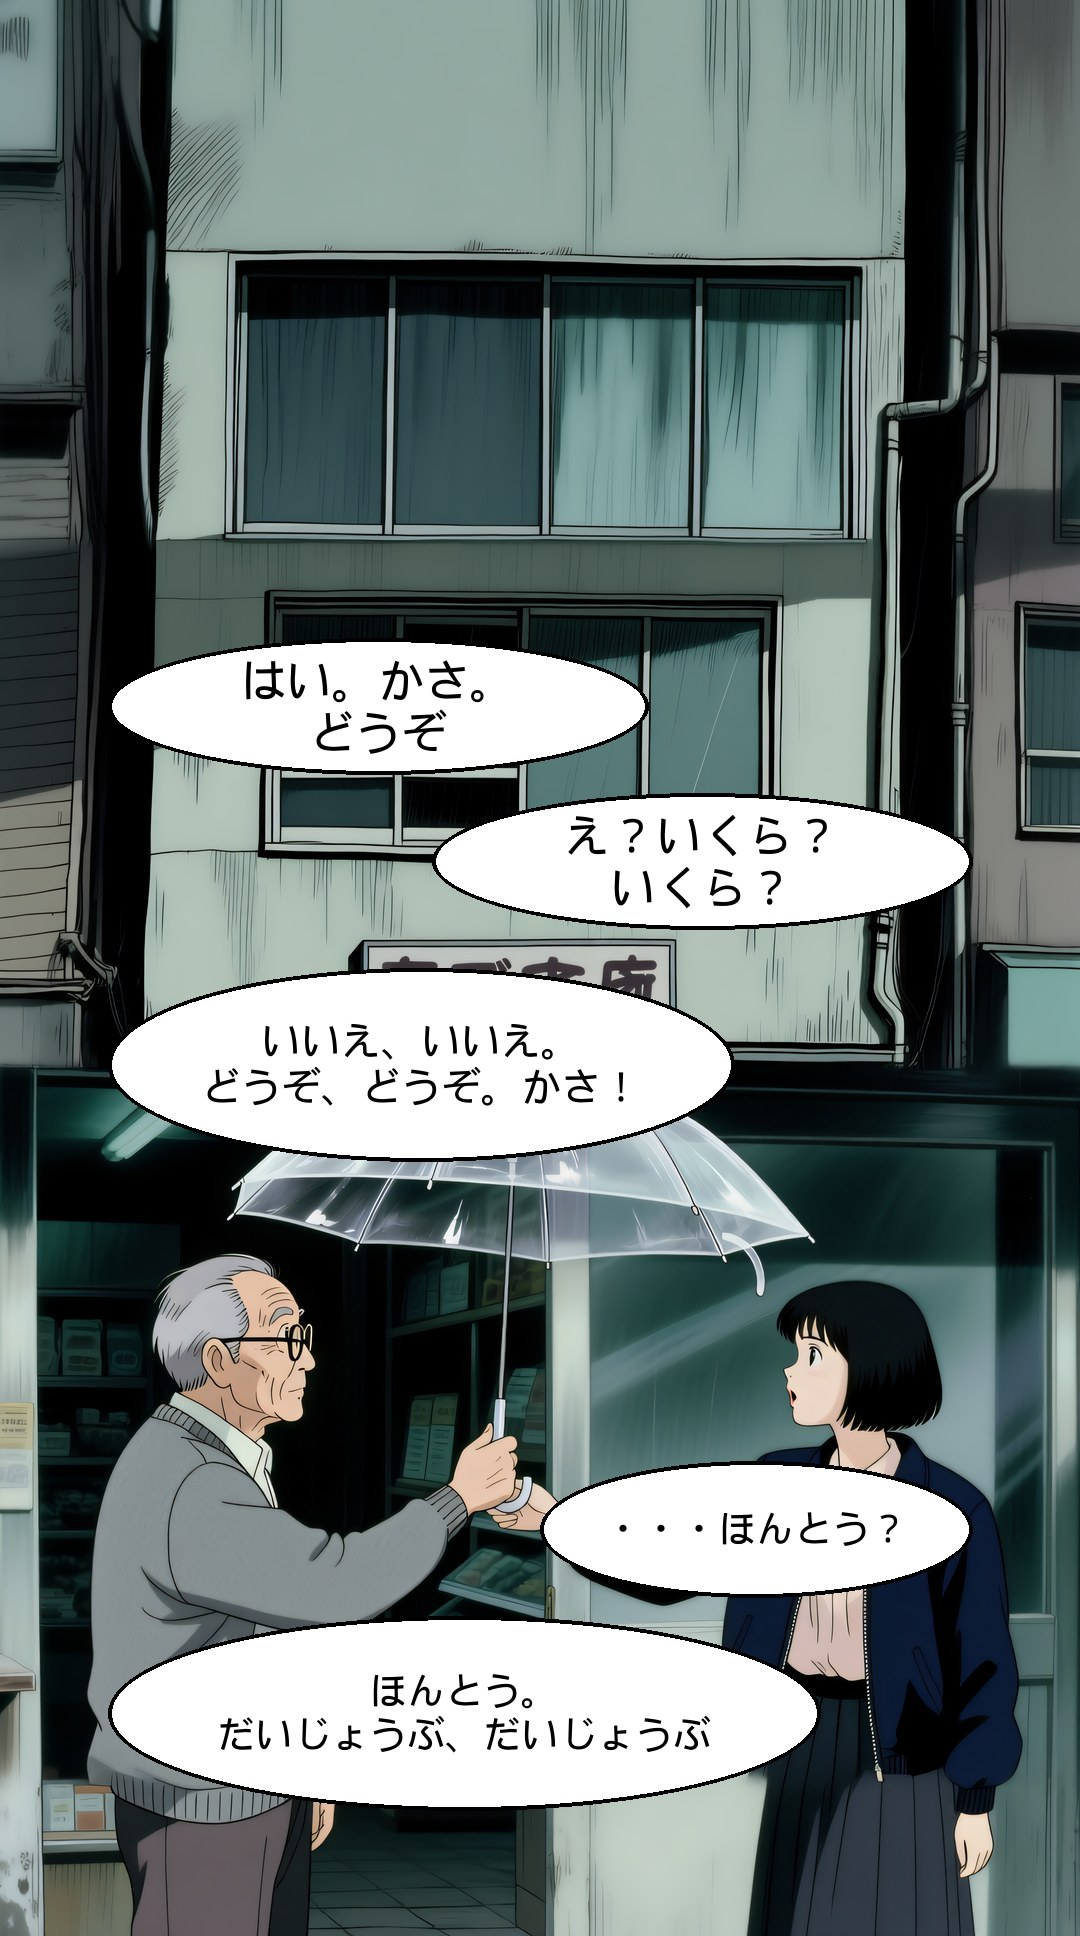
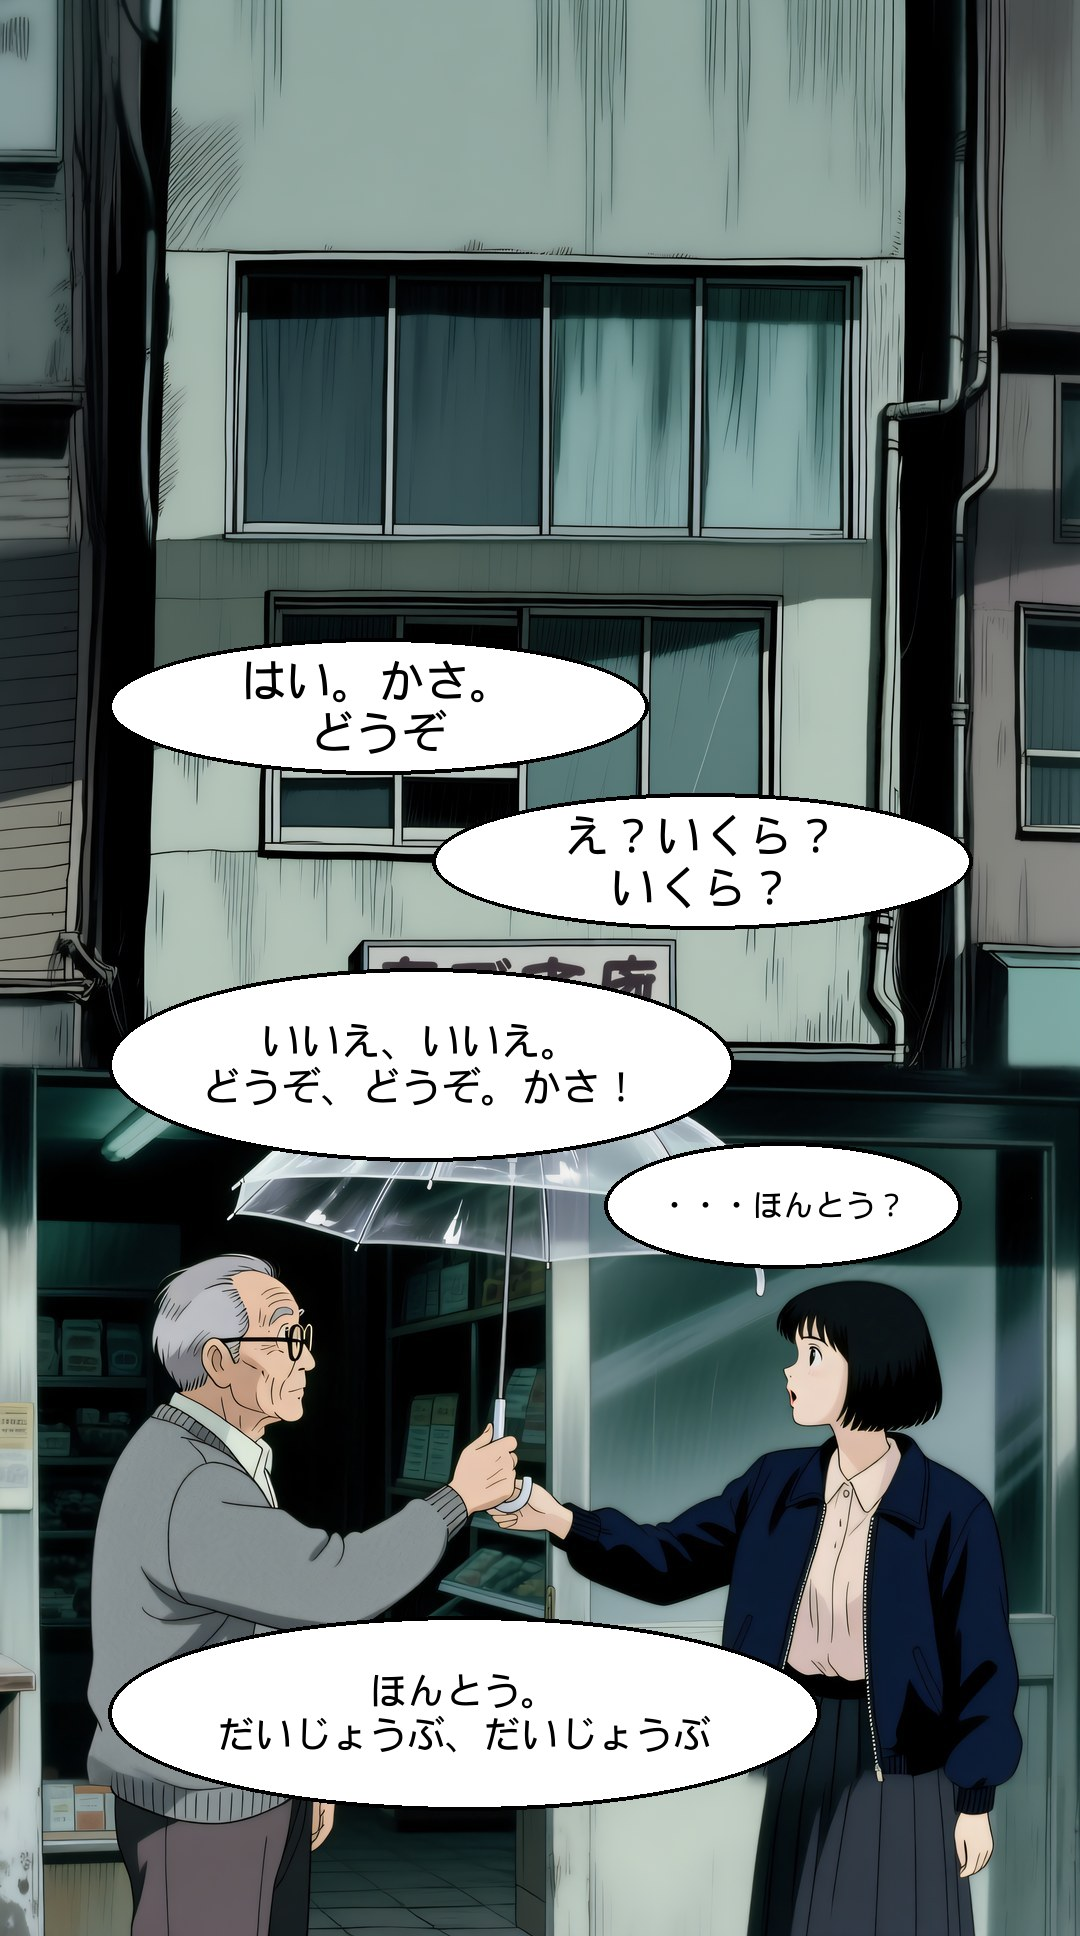
fix(comic): Fix-Welle Gesamt-Review — force löscht Altbild, Quellgröße geprüft, OUT nur feste Namen, INV-17-Wortlaut, README mkdir, p07-Blase frei von der Übergabe
Claude-Session: https://claude.ai/code/session_01V1Gjg1CbgsdmmmgtvPes7L

Changed region(s): [[0.4889, 0.7438, 0.9167, 0.8368], [0.55, 0.5888, 0.8861, 0.6818]]

diff --git a/lib/features/story/episodes/folge_01_layout.g.dart b/lib/features/story/episodes/folge_01_layout.g.dart
@@ -259,10 +259,10 @@ const List<Map<String, double>> f01HitHochP07B2 = [
 
 /// p07 hoch: …ほんとう？
 const List<Map<String, double>> f01HitHochP07B3 = [
-  {'x': 0.5, 'y': 0.755},
-  {'x': 0.9, 'y': 0.755},
-  {'x': 0.9, 'y': 0.825},
-  {'x': 0.5, 'y': 0.825},
+  {'x': 0.56, 'y': 0.59},
+  {'x': 0.89, 'y': 0.59},
+  {'x': 0.89, 'y': 0.655},
+  {'x': 0.56, 'y': 0.655},
 ];
 
 /// p07 hoch: ほんとう。だいじょうぶ、だいじょうぶ

diff --git a/tool/comic/test_hoch.py b/tool/comic/test_hoch.py
@@ -1,5 +1,7 @@
 #!/usr/bin/env python3
 """Aufruf: cd tool/comic && python3 -m unittest test_hoch (ohne Box: cc.run wird ersetzt)"""
+import contextlib
+import io
 import json
 import os
 import tempfile
@@ -133,6 +135,30 @@ class Main(Base):
             self.assertIn("human figure", c[4])
         with Image.open(os.path.join(fh.OUT, "p05_hoch.png")) as im:
             self.assertEqual(im.size, (928, 1664))
+        self.assertEqual(sorted(os.listdir(fh.OUT)), ["%s_hoch.png" % m for m in sorted(MOTIFS)])  # nur feste Namen in OUT
+
+    def test_force_removes_stale_output_before_rendering(self):
+        fh.main(self.picks)                                   # p05 liegt
+        stale = os.path.join(fh.OUT, "p05_hoch.png")
+        self.assertTrue(os.path.exists(stale))
+
+        def failing_run(graph, prefix, out_dir, client_id="x"):
+            raise RuntimeError("Box weg")
+        cc.run = failing_run
+        ov = os.path.join(self.d, "ov.txt")
+        with open(ov, "w", encoding="utf-8") as f:
+            f.write("p05_hoch force\n")
+        fh.main(self.picks, ov)
+        self.assertFalse(os.path.exists(stale))               # altes Bild weg, finish meldet FEHLT statt Veraltetes zu nehmen
+
+    def test_wrong_source_size_is_err_not_silent_crop(self):
+        gradient(1920, 1072).save(self.quer["p03"])          # Auslieferungsgröße statt Render-Maß
+        buf = io.StringIO()
+        with contextlib.redirect_stdout(buf):
+            fh.main(self.picks)
+        self.assertIn("ERR p03", buf.getvalue())
+        self.assertIn("1664", buf.getvalue())
+        self.assertFalse(os.path.exists(os.path.join(fh.OUT, "p03_hoch.png")))
 
     def test_main_skips_existing_unless_force(self):
         fh.main(self.picks)

diff --git a/tool/comic/folge01_hoch.py b/tool/comic/folge01_hoch.py
@@ -91,7 +91,7 @@ def extend(motif, strip, plan, seed, out_path):
         last = i == len(steps) - 1
         prefix = "%s_hoch" % motif if last else "%s_hochT%d" % (motif, i + 1)
         got = cc.run(cc.outpaint_graph(cur, top, 0, prompt, NEG_MANGA + NEG_HOCH_OBEN, seed + i, prefix,
-                                       feather=FEATHER_OBEN), prefix, OUT if last else TMP, "f01hoch")
+                                       feather=FEATHER_OBEN), prefix, TMP, "f01hoch")
         last_file = got[0]
         if not last:
             cur = _to_input(last_file, "hoch_%s_T%d.png" % (motif, i + 1))
@@ -118,9 +118,13 @@ def main(picks_path, overrides_path=None):
         if os.path.exists(out_path) and not opts.get("force"):
             print("SKIP", m, flush=True)
             continue
+        if opts.get("force") and os.path.exists(out_path):
+            os.remove(out_path)   # sonst bliebe nach force + ERR ein veraltetes Bild stehen, das finish stillschweigend nimmt
         plan = kg.plan_for(kerne[m])
         try:
             with Image.open(src) as raw:
+                if raw.size != kg.QUER:
+                    raise ValueError("%s: Quelle ist %s, erwartet %s (Render-Maß)" % (m, raw.size, kg.QUER))
                 strip = strip_image(raw.convert("RGB"), plan)
             if plan["mode"] == "crop":
                 print("CROP", m, plan["x0"], plan["x1"], flush=True)

diff --git a/docs/superpowers/specs/2026-09-23-manga-vollbild-titelbild-design.md b/docs/superpowers/specs/2026-09-23-manga-vollbild-titelbild-design.md
@@ -326,7 +326,7 @@ Befunde in §12.6).
      Fenster mittig über dem Kern, an den Bildrand geklemmt.
   2. **Kern breiter als das Fenster** → der Kernstreifen (volle Höhe, volle
      Kernbreite) wird auf 928 px Breite verkleinert und oben/unten vom Modell
-     im Hausstil **verlängert** (§12.4). Der Kern bleibt dabei pixelgleich.
+     im Hausstil **verlängert** (§12.4). Der Kern bleibt dabei inhaltlich unverändert; er durchläuft nur die Bildkodierung des Modells (VAE-Rundreise je Pass), was `check_kern.py` als Abweichung von ≈ 1–2 misst (Beschnitt ≈ 0,5, Grenze 10).
 - Reaktionsbilder (p02/p05/p08) entstehen wie bisher als getönte Variante des
   geletterten Bildes, also automatisch auch hoch.
 
@@ -402,7 +402,7 @@ bildschirmfüllend; nur die Dateien und die Hoch-Tippflächen (generiert) änder
 sich. Invarianten INV-14/15/16 gelten unverändert.
 
 **INV-17 Hoch und quer zeigen dieselbe Szene.** Der Kern des Hochbilds ist
-(bis auf Skalierung) pixelgleich mit dem Kern des Querbilds; `check_kern.py`
+(bis auf Skalierung und die VAE-Rundreise des Rand-Ausmalens) pixelgleich mit dem Kern des Querbilds; `check_kern.py`
 erzwingt das vor dem Lettering.
 
 ### 12.6 Spike-Befunde (30.9.), damit niemand die Fallen neu entdeckt

diff --git a/tool/comic/README.md b/tool/comic/README.md
@@ -146,7 +146,7 @@ ssh pc 'setsid nohup sh ~/f01tool/run_hoch.sh > ~/comfy_f01/hoch.log 2>&1 </dev/
 Marken: `CROP/EXTEND/OK/SKIP/ERR <motiv>`, `HOCH_DONE`. Ergebnis `~/comfy_f01/hoch/<motiv>_hoch.png`
 (fester Name, kein ComfyUI-Zähler) und `~/f01tool/picks_hoch.txt` (quer + hoch) für die Vergrößerung:
 ```
-scp 'pc:comfy_f01/hoch/*_hoch.png' build/f01_hoch/ ; scp pc:f01tool/picks_hoch.txt build/f01_hoch/
+mkdir -p build/f01_hoch ; scp 'pc:comfy_f01/hoch/*_hoch.png' build/f01_hoch/ ; scp pc:f01tool/picks_hoch.txt build/f01_hoch/
 scp build/f01_hoch/picks_hoch.txt pc:f01tool/ ; ssh pc 'cd ~/f01tool && python3 folge01_finish.py picks_hoch.txt'
 scp 'pc:comfy_f01/final/*_hoch.jpg' build/f01_raw/
 python3 tool/comic/check_bars.py build/f01_raw && python3 tool/comic/check_kern.py build/f01_raw   # INV-17
